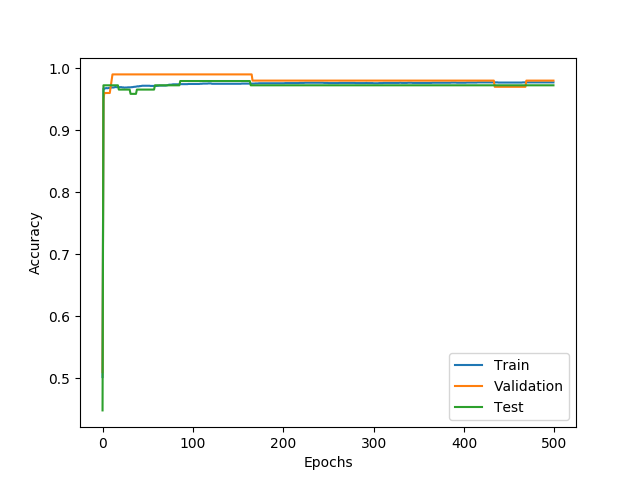
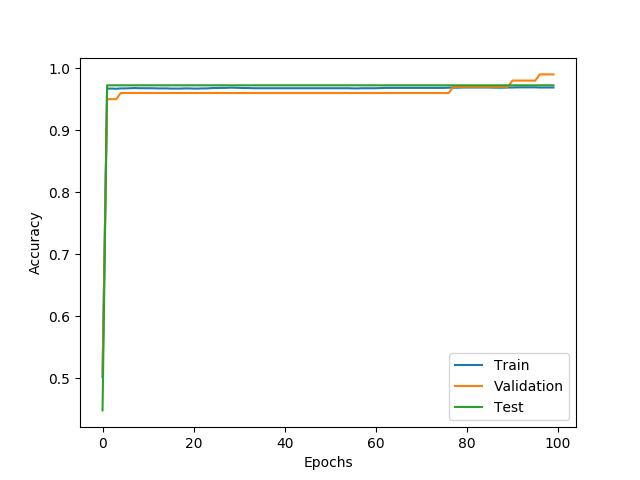
e

diff --git a/a1/code/starter.py b/a1/code/starter.py
@@ -45,6 +45,8 @@ def compute_accuracy(W, b, x, y):
     except:
         print("nothing")
     output = x.dot(W) + b
+    # print(output.tolist())
+    # A[2]
     output = np.where(output >= 0.5, 1, 0).squeeze()
     accuracy = np.where(output == y.squeeze(), 1, 0).sum()
     return accuracy/output.shape[0]
@@ -58,7 +60,7 @@ def plot_trend(list_of_data, data_names = ["Train", "Validation", "Test"], data_
     plt.legend()
     plt.savefig(data_title + ".png")
     plt.show()
-def grad_descent(W, b, x, y, alpha, epochs, reg, error_tol = 0.0000001, val_data = [], test_data = []):
+def grad_descent(W, b, x, y, alpha, epochs, reg, error_tol = 0, val_data = [], test_data = []):
     # initialize storage elements
     error_train = []
     acc_train = []
@@ -119,19 +121,18 @@ def buildGraph(loss="MSE"):
 
 trainData, validData, testData, trainTarget, validTarget, testTarget = loadData()
 # print(trainData.shape) # (num of item, length, width)
-W = np.random.randint(1, size=(28*28, ))
+np.random.seed(20)
 W = np.random.random((28*28, ))
-b = 0.5
+b = 0
 reg = 0.5
 W_ana, b_ana = MSE_normalEQ(W, b, trainData, trainTarget)
 print(compute_accuracy(W_ana, b_ana, trainData, trainTarget))
 print(MSE(W_ana, b_ana, trainData, trainTarget, 0))
 W = np.random.randint(1, size=(28*28, ))
 b = 0.5
-W, b = grad_descent(W, b, trainData, trainTarget, 0.0005, 500, reg, error_tol = 0.0000001, val_data = [validData, validTarget], test_data=[testData, testTarget])
+W, b = grad_descent(W, b, trainData, trainTarget, 0.00005, 100, reg, error_tol = 0.0000001, val_data = [validData, validTarget], test_data=[testData, testTarget])
 print(compute_accuracy(W, b, trainData, trainTarget))
 print(MSE(W, b, trainData, trainTarget, 0))
-
 
 # for reg in [0.001, 0.1, 0.5]:
 #     W = np.random.randint(1, size=(28 * 28,))
